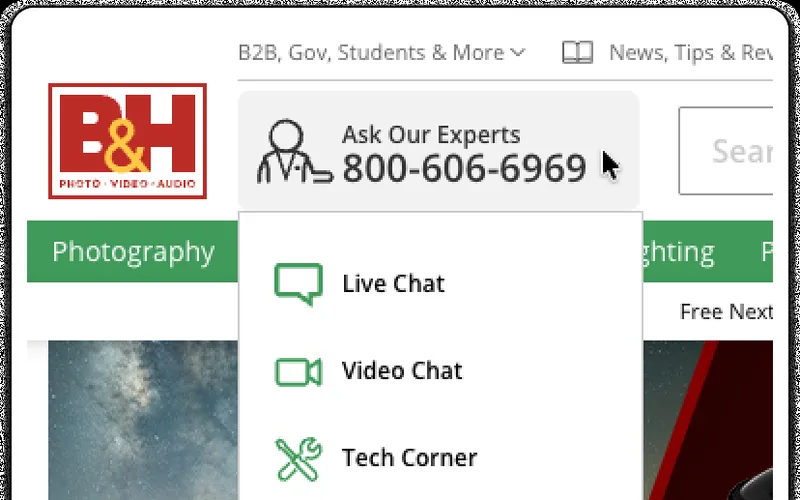
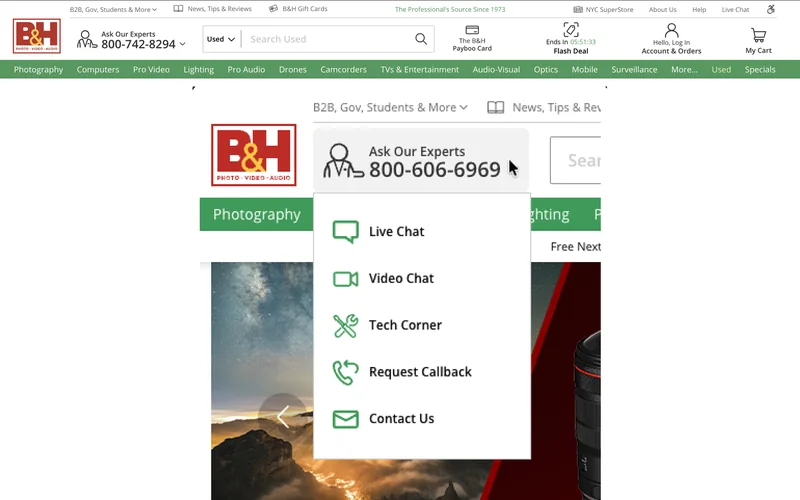
new shipped

diff --git a/index.html b/index.html
@@ -843,7 +843,14 @@
       backdrop-filter: blur(8px); -webkit-backdrop-filter: blur(8px);
     }
     .scard-body { padding: 18px 20px 18px; display: flex; flex-direction: column; flex: 1; }
-    .scard-title { font-size: 15.5px; font-weight: 800; color: var(--navy); line-height: 1.25; margin-bottom: 8px; }
+    .scard-title { font-size: 15.5px; font-weight: 800; color: var(--navy); line-height: 1.25; margin-bottom: 9px; }
+    .scard-stake { font-size: 12.5px; line-height: 1.6; color: var(--gray-700); margin-bottom: 11px; }
+    .scard-outcome {
+      display: flex; gap: 7px; font-size: 12px; line-height: 1.55; font-weight: 600;
+      color: var(--navy); background: var(--gold-dim); border-left: 2px solid var(--gold);
+      border-radius: 0 6px 6px 0; padding: 9px 11px; margin-bottom: 12px;
+    }
+    .scard-mark { color: var(--gold); font-weight: 800; flex: 0 0 auto; }
     .scard-where {
       font-size: 11.5px; line-height: 1.6; color: var(--gray-500);
       display: flex; gap: 7px; flex: 1; margin-bottom: 14px;
@@ -988,27 +995,63 @@
     is site-wide; the rest are refinements that surface across many listing pages &mdash; so each tile says where to
     look and opens a page where you can see it working.</p>
     <div class="shipped-grid">
-      <a class="scard" href="https://www.bhphotovideo.com/c/buy/Digital-Cameras/ci/9811/N/4288586282" target="_blank" rel="noopener">
+      <a class="scard" href="https://www.bhphotovideo.com/deals-promotions-coupons" target="_blank" rel="noopener">
         <div class="scard-thumb">
-          <img src="thumbs/ship-swatches.webp" alt="Color Swatches on bhphotovideo.com" loading="lazy" width="800" height="500">
-          <span class="scard-live">Live</span>
+          <img src="thumbs/ship-dealzone.webp" alt="Specials & Sunset Deal Zone on bhphotovideo.com" loading="lazy" width="800" height="500">
+          <span class="scard-live">Shipped 2023</span>
         </div>
         <div class="scard-body">
-          <h3 class="scard-title">Color Swatches</h3>
-          <p class="scard-where"><span class="scard-pin">&#9679;</span>Left rail &rarr; Color &rarr; See all</p>
+          <h3 class="scard-title">Specials &amp; Sunset Deal Zone</h3>
+          <p class="scard-stake">Coupon and specials pages competed against each other in search, and customers had no single place to find savings.</p>
+          <p class="scard-outcome"><span class="scard-mark">&rarr;</span>One destination for deals &mdash; for customers, marketing, and the buying team alike.</p>
+          <p class="scard-where"><span class="scard-pin">&#9679;</span>Deal Zone &mdash; new savings every day</p>
           <div class="scard-foot">
-            <span class="scard-surface">Listing pages</span>
-            <span class="scard-cta">Digital Cameras <span class="arrow">&rarr;</span></span>
+            <span class="scard-surface">Own page</span>
+            <span class="scard-cta">Deals &amp; Promotions <span class="arrow">&rarr;</span></span>
+          </div>
+        </div>
+      </a>
+      <a class="scard" href="https://www.bhphotovideo.com/c/browse/Used-Equipment/ci/2870/N/4294247188" target="_blank" rel="noopener">
+        <div class="scard-thumb">
+          <img src="thumbs/ship-usedhub.webp" alt="Used Hub on bhphotovideo.com" loading="lazy" width="800" height="500">
+          <span class="scard-live">Shipped 2025</span>
+        </div>
+        <div class="scard-body">
+          <h3 class="scard-title">Used Hub</h3>
+          <p class="scard-stake">A category page with twelve links, no trust signals, and nothing to guide a first-time used buyer.</p>
+          <p class="scard-outcome"><span class="scard-mark">&rarr;</span>A hub that matches the competition and gives buy- and sell-used customers a reason to trust it.</p>
+          <p class="scard-where"><span class="scard-pin">&#9679;</span>Buy Used &middot; Sell Used &middot; FAQs &middot; Museum</p>
+          <div class="scard-foot">
+            <span class="scard-surface">Own page</span>
+            <span class="scard-cta">Used Equipment <span class="arrow">&rarr;</span></span>
+          </div>
+        </div>
+      </a>
+      <a class="scard" href="https://www.bhphotovideo.com/" target="_blank" rel="noopener">
+        <div class="scard-thumb">
+          <img src="thumbs/ship-experts.webp" alt="Experts in the Header on bhphotovideo.com" loading="lazy" width="800" height="500">
+          <span class="scard-live">Shipped 2024</span>
+        </div>
+        <div class="scard-body">
+          <h3 class="scard-title">Experts in the Header</h3>
+          <p class="scard-stake">B&amp;H&rsquo;s differentiator is its experts &mdash; but reaching one meant scrolling to the footer or searching for it.</p>
+          <p class="scard-outcome"><span class="scard-mark">&rarr;</span>A specialist one click away, from any page, on every page.</p>
+          <p class="scard-where"><span class="scard-pin">&#9679;</span>Ask Our Experts &rarr; chat, video, callback</p>
+          <div class="scard-foot">
+            <span class="scard-surface">Site-wide</span>
+            <span class="scard-cta">Every page <span class="arrow">&rarr;</span></span>
           </div>
         </div>
       </a>
       <a class="scard" href="https://www.bhphotovideo.com/c/buy/Complete-Tripods-with-Heads/ci/2635/N/4075788742" target="_blank" rel="noopener">
         <div class="scard-thumb">
           <img src="thumbs/ship-sliders.webp" alt="Slider Refinements on bhphotovideo.com" loading="lazy" width="800" height="500">
-          <span class="scard-live">Live</span>
+          <span class="scard-live">Shipped 2026</span>
         </div>
         <div class="scard-body">
           <h3 class="scard-title">Slider Refinements</h3>
+          <p class="scard-stake">Filtering by a range meant selecting values one at a time &mdash; and some ranges run to hundreds of options.</p>
+          <p class="scard-outcome"><span class="scard-mark">&rarr;</span>Drag the min or max, release, and the results reload.</p>
           <p class="scard-where"><span class="scard-pin">&#9679;</span>Left rail &rarr; Maximum Height, Support Weight</p>
           <div class="scard-foot">
             <span class="scard-surface">Listing pages</span>
@@ -1023,6 +1066,8 @@
         </div>
         <div class="scard-body">
           <h3 class="scard-title">Select All / Deselect All</h3>
+          <p class="scard-stake">The same problem as the sliders, but for values that aren&rsquo;t consecutive.</p>
+          <p class="scard-outcome"><span class="scard-mark">&rarr;</span>One click activates or clears every value &mdash; no picking through paginated lists.</p>
           <p class="scard-where"><span class="scard-pin">&#9679;</span>Any multi-value filter &rarr; See All Options</p>
           <div class="scard-foot">
             <span class="scard-surface">Listing pages</span>
@@ -1030,45 +1075,19 @@
           </div>
         </div>
       </a>
-      <a class="scard" href="https://www.bhphotovideo.com/deals-promotions-coupons" target="_blank" rel="noopener">
+      <a class="scard" href="https://www.bhphotovideo.com/c/buy/Digital-Cameras/ci/9811/N/4288586282" target="_blank" rel="noopener">
         <div class="scard-thumb">
-          <img src="thumbs/ship-dealzone.webp" alt="Specials & Sunset Deal Zone on bhphotovideo.com" loading="lazy" width="800" height="500">
-          <span class="scard-live">Live</span>
+          <img src="thumbs/ship-swatches.webp" alt="Color Swatches on bhphotovideo.com" loading="lazy" width="800" height="500">
+          <span class="scard-live">Shipped 2024</span>
         </div>
         <div class="scard-body">
-          <h3 class="scard-title">Specials &amp; Sunset Deal Zone</h3>
-          <p class="scard-where"><span class="scard-pin">&#9679;</span>Deal Zone &mdash; new savings every day</p>
+          <h3 class="scard-title">Color Swatches</h3>
+          <p class="scard-stake">Customers couldn&rsquo;t tell at a glance which colors a product came in.</p>
+          <p class="scard-outcome"><span class="scard-mark">&rarr;</span>Swatches in the filter rail, so the range is read at a glance instead of guessed.</p>
+          <p class="scard-where"><span class="scard-pin">&#9679;</span>Left rail &rarr; Color &rarr; See all</p>
           <div class="scard-foot">
-            <span class="scard-surface">Own page</span>
-            <span class="scard-cta">Deals &amp; Promotions <span class="arrow">&rarr;</span></span>
-          </div>
-        </div>
-      </a>
-      <a class="scard" href="https://www.bhphotovideo.com/c/browse/Used-Equipment/ci/2870/N/4294247188" target="_blank" rel="noopener">
-        <div class="scard-thumb">
-          <img src="thumbs/ship-usedhub.webp" alt="Used Hub on bhphotovideo.com" loading="lazy" width="800" height="500">
-          <span class="scard-live">Live</span>
-        </div>
-        <div class="scard-body">
-          <h3 class="scard-title">Used Hub</h3>
-          <p class="scard-where"><span class="scard-pin">&#9679;</span>Buy Used &middot; Sell Used &middot; FAQs &middot; Museum</p>
-          <div class="scard-foot">
-            <span class="scard-surface">Own page</span>
-            <span class="scard-cta">Used Equipment <span class="arrow">&rarr;</span></span>
-          </div>
-        </div>
-      </a>
-      <a class="scard" href="https://www.bhphotovideo.com/" target="_blank" rel="noopener">
-        <div class="scard-thumb">
-          <img src="thumbs/ship-experts.webp" alt="Experts in the Header on bhphotovideo.com" loading="lazy" width="800" height="500">
-          <span class="scard-live">Live</span>
-        </div>
-        <div class="scard-body">
-          <h3 class="scard-title">Experts in the Header</h3>
-          <p class="scard-where"><span class="scard-pin">&#9679;</span>Ask Our Experts &rarr; chat, video, callback</p>
-          <div class="scard-foot">
-            <span class="scard-surface">Site-wide</span>
-            <span class="scard-cta">Every page <span class="arrow">&rarr;</span></span>
+            <span class="scard-surface">Listing pages</span>
+            <span class="scard-cta">Digital Cameras <span class="arrow">&rarr;</span></span>
           </div>
         </div>
       </a>
